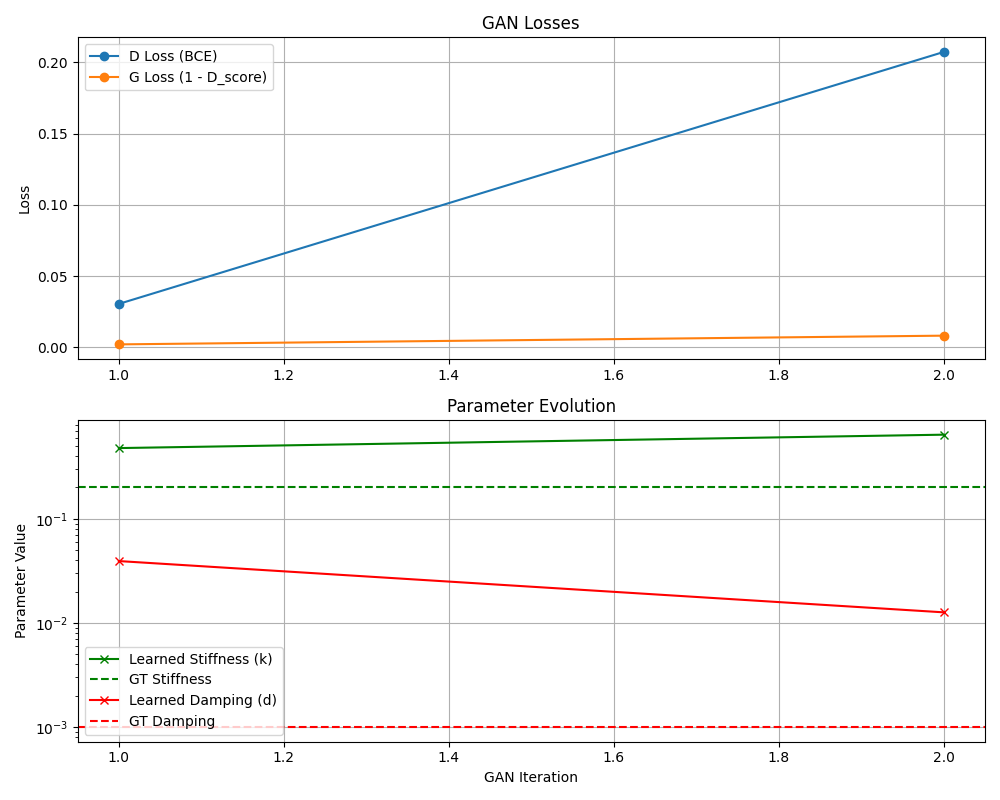
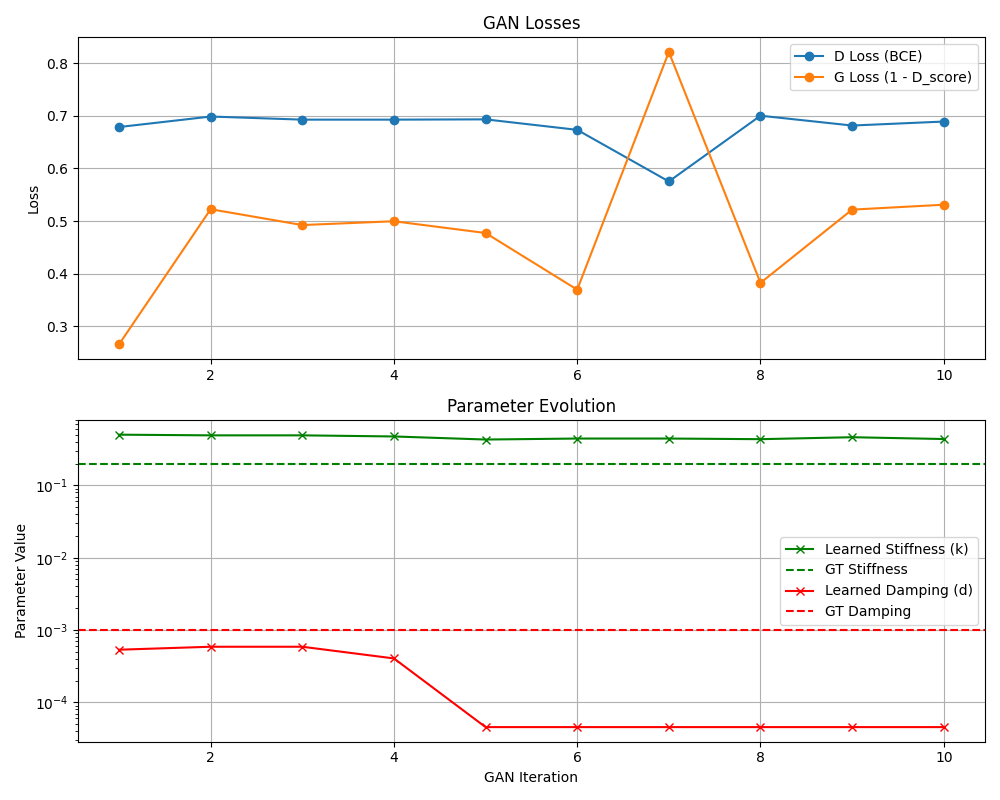
tuned the training a lil more

diff --git a/comfree_forward_mod.py b/comfree_forward_mod.py
@@ -1,0 +1,214 @@
+# Copyright (c) 2026 ASU IRIS
+# Licensed for noncommercial academic research use only.
+# See comfree_warp/comfree_core/LICENSE for terms.
+# -----------------------------------------------------------------------------
+import warp as wp
+
+from comfree_warp.mujoco_warp._src import collision_driver
+from comfree_warp.mujoco_warp._src import sensor
+from comfree_warp.mujoco_warp._src import smooth
+from comfree_warp.mujoco_warp._src.forward import euler
+from comfree_warp.mujoco_warp._src.forward import fwd_acceleration
+from comfree_warp.mujoco_warp._src.forward import fwd_actuation
+from comfree_warp.mujoco_warp._src.forward import fwd_velocity
+from comfree_warp.mujoco_warp._src.forward import implicit
+from comfree_warp.mujoco_warp._src.warp_util import event_scope
+
+from . import constraint
+from .types import Data
+from .types import EnableBit
+from .types import IntegratorType
+from .types import Model
+from .types import DisableBit
+
+wp.set_module_options({"enable_backward": False})
+
[email redacted]
+def _advance_vel(
+  # Model:
+  opt_timestep: wp.array(dtype=float),
+  # Data in:
+  qvel_in: wp.array2d(dtype=float),
+  qacc_smooth_in: wp.array2d(dtype=float),
+  # Data out:
+  qvel_out: wp.array2d(dtype=float),
+  qfrc_constraint: wp.array2d(dtype=float),
+):
+  worldid, dofid = wp.tid()
+  timestep = opt_timestep[worldid % opt_timestep.shape[0]]
+  qvel_out[worldid, dofid] = qvel_in[worldid, dofid] + qacc_smooth_in[worldid, dofid] * timestep
+  qfrc_constraint[worldid, dofid] = 0.0
+
+
[email redacted]
+def _compute_qfrc_constraint(
+  # Model:
+  opt_timestep: wp.array(dtype=float),
+  # comfree model parameter
+  comfree_stiffness: wp.array(dtype=float),
+  comfree_damping: wp.array(dtype=float),
+  # Data in: 
+  J: wp.array3d(dtype=float),
+  efc_dist: wp.array2d(dtype=float),
+  efc_mass: wp.array2d(dtype=float),
+  qvel_smooth_pred: wp.array2d(dtype=float),
+  nv: int,
+  nefc: wp.array(dtype=int),
+  # Out: 
+  efc_force: wp.array2d(dtype=float),
+  qfrc_constraint: wp.array2d(dtype=float),
+):
+  worldid, efcid = wp.tid()
+  timestep = opt_timestep[worldid % opt_timestep.shape[0]]
+
+  if efcid >= nefc[worldid]:
+    return
+  
+  efc_vel = float(0.0)
+  for i in range(nv):
+    efc_vel += J[worldid, efcid, i] * qvel_smooth_pred[worldid, i]
+
+  # key steps in the comfree paper
+  stiffness = comfree_stiffness[worldid % comfree_stiffness.shape[0]] / timestep
+  damping = comfree_damping[worldid % comfree_damping.shape[0]] / timestep
+  # predictive penetration with smoothing velocity
+  efc_penetration = efc_vel * timestep + efc_dist[worldid, efcid]
+  # efc_acc = -damping * efc_b[worldid, efcid] * efc_vel - stiffness * efc_k[worldid, efcid] * efc_penetration
+  efc_acc = -damping *  efc_vel - stiffness *  efc_penetration
+  efc_frc=  efc_mass[worldid, efcid] * efc_acc
+  efc_frc= wp.max(efc_frc, 0.0)
+
+  # output
+  efc_force[worldid, efcid] =efc_frc
+  for i in range(nv):
+    # qfrc_constraint[worldid][i] +=  J[worldid, efcid, i] * efc_frc
+    wp.atomic_add(qfrc_constraint, worldid, i, J[worldid, efcid, i] * efc_frc)
+
+
+
[email redacted]
+def _compute_qfrc_total(
+  qfrc_smooth: wp.array2d(dtype=float),
+  qfrc_constraint: wp.array2d(dtype=float),
+  qfrc_total: wp.array2d(dtype=float),
+):
+  worldid, dofid = wp.tid()
+  qfrc_total[worldid, dofid] = qfrc_smooth[worldid, dofid] + qfrc_constraint[worldid, dofid]
+
+
+@event_scope
+def compute_qfrc_total(m: Model, d: Data):
+
+  wp.launch(
+    _advance_vel,
+    dim=(d.nworld, m.nv),
+    inputs=[
+      m.opt.timestep,
+      d.qvel,
+      d.qacc_smooth,
+    ],
+    outputs=[
+      d.qvel_smooth_pred,
+      d.qfrc_constraint,
+    ],
+  )
+
+  wp.launch(
+    _compute_qfrc_constraint,
+    dim=(d.nworld, d.efc.J.shape[1]),
+    inputs=[
+      m.opt.timestep,
+      m.comfree_stiffness,
+      m.comfree_damping,  
+      d.efc.J,
+      d.efc.efc_dist,
+      d.efc.efc_mass,
+      d.qvel_smooth_pred,
+      m.nv,
+      d.nefc,
+    ],
+    outputs=[
+      d.efc.force,
+      d.qfrc_constraint,
+    ]
+  )
+
+  wp.launch(
+    _compute_qfrc_total,
+    dim=(d.nworld, m.nv),
+    inputs=[
+      d.qfrc_smooth,
+      d.qfrc_constraint,
+    ],
+    outputs=[
+      d.qfrc_total,
+    ],
+  )
+
+
+@event_scope
+def forward_comfree(m: Model, d: Data, factorize: bool = True):
+  """Forward dynamics with complementarity-free model."""
+
+  # forward position
+  smooth.kinematics(m, d)
+  smooth.com_pos(m, d)
+  smooth.camlight(m, d)
+  smooth.flex(m, d)
+  smooth.tendon(m, d)
+  smooth.crb(m, d)
+  smooth.tendon_armature(m, d)
+  if factorize:
+    smooth.factor_m(m, d)
+  if m.opt.run_collision_detection:
+    collision_driver.collision(m, d)
+  constraint.make_constraint(m, d) 
+  smooth.transmission(m, d)
+
+  d.sensordata.zero_()
+  sensor.sensor_pos(m, d)
+  energy = m.opt.enableflags & EnableBit.ENERGY
+  if energy:
+    if m.sensor_e_potential == 0:  # not computed by sensor
+      sensor.energy_pos(m, d)
+  else:
+    d.energy.zero_()
+
+  # forward velocity
+  fwd_velocity(m, d)
+  sensor.sensor_vel(m, d)
+
+  if energy:
+    if m.sensor_e_kinetic == 0:  # not computed by sensor
+      sensor.energy_vel(m, d)
+
+  # forward actuation and smooth acceleration
+  if not (m.opt.disableflags & DisableBit.ACTUATION):
+    if m.callback.control:
+      m.callback.control(m, d)
+  fwd_actuation(m, d)
+  fwd_acceleration(m, d, factorize=True)
+
+  # call comfree model to resolve constraints
+  if d.njmax == 0 or m.nv == 0:
+    wp.copy(d.qacc, d.qacc_smooth)
+  else:
+    compute_qfrc_total(m, d)
+    smooth.solve_m(m, d, d.qacc, d.qfrc_total)
+
+  sensor.sensor_acc(m, d)
+
+
+@event_scope
+def step_comfree(m: Model, d: Data):
+  """Advance simulation with complementarity-free model."""
+  forward_comfree(m, d)
+
+  if m.opt.integrator == IntegratorType.EULER:
+    wp.copy(d.efc.Ma, d.qfrc_total)
+    euler(m, d)
+  elif m.opt.integrator == IntegratorType.IMPLICITFAST:
+    wp.copy(d.efc.Ma, d.qfrc_total)
+    implicit(m, d)
+  else:
+    raise NotImplementedError(f"integrator {m.opt.integrator} not implemented.")

diff --git a/adversarial_training.py b/adversarial_training.py
@@ -23,19 +23,19 @@ def get_default_config():
         "env_xml": "bouncing_ball.xml",
         "duration": 2.0,
         "mppi_noise_sigma": 1.0,
-        "mppi_samples": 1000,
+        "mppi_samples": 256,
         "num_goals": 40,                 # Number of goals to sample per GAN iteration
-        "num_goals_gen_train":10,
+        "num_goals_gen_train":1,
         "goal_dist_mean": [0.0, 0.0, 0.0],
         "goal_dist_std": [1.0, 0.0, 0.0], # e.g., vary X and Y, keep Z flat
-        "gan_iterations": 100,           # Outer loops
-        "d_epochs": 200,                 # Discriminator training epochs per loop
-        "d_lr": 0.001,
+        "gan_iterations": 10,           # Outer loops
+        "d_epochs": 150,                 # Discriminator training epochs per loop
+        "d_lr": 0.0001,
         "d_batch_size": 16,
-        "g_optim_algo": "Nelder-Mead",       # Scipy optimizer (Powell, Nelder-Mead, L-BFGS-B)
-        "g_max_iters": 50,#50,              # Max function evaluations per G-step
-        "init_k": 0.5,
-        "init_d": 0.1,
+        "g_optim_algo": "L-BFGS-B",       # Scipy optimizer (Powell, Nelder-Mead, L-BFGS-B)
+        "g_max_iters": 10,#50,              # Max function evaluations per G-step
+        "init_k": 0.4,
+        "init_d": 0.002,
         "gt_k": 0.2,                    # Ground truth for standard Mujoco simulation
         "gt_d": 0.001,
         "use_com_free_for_gt":True,
@@ -188,7 +188,7 @@ def run_gan_optimization(config):
     print(f"Running on {device}")
     
     # Initialize Discriminator
-    D = disc.LSTMDiscriminator(input_size=3, hidden_size=64, num_layers=2).to(device)
+    D = disc.LSTMDiscriminator(input_size=3, hidden_size=16, num_layers=2).to(device)
     optimizer = optim.Adam(D.parameters(), lr=config["d_lr"])
     
     current_k = config["init_k"]
@@ -283,7 +283,7 @@ def save_results(history, D, config):
 
 if __name__ == "__main__":
     # Example Grid Search usage
-    algorithms = ["Nelder-Mead"] # Add "Nelder-Mead", "L-BFGS-B" to test others
+    algorithms = ["L-BFGS-B"] # Add "Nelder-Mead", "L-BFGS-B" to test others
     
     for algo in algorithms:
         print(f"\n{'='*50}\nStarting Optimization with {algo}\n{'='*50}")